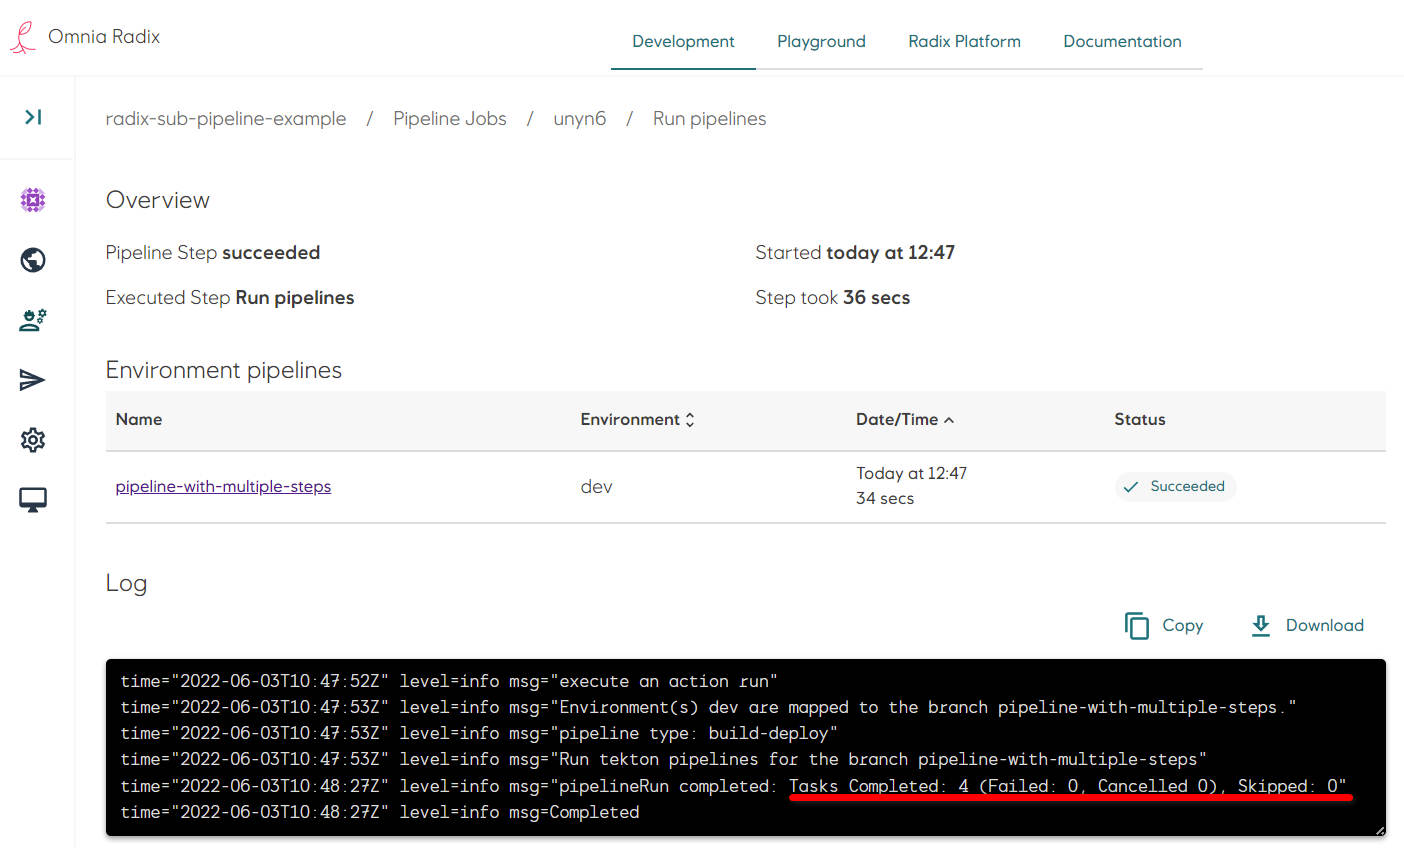
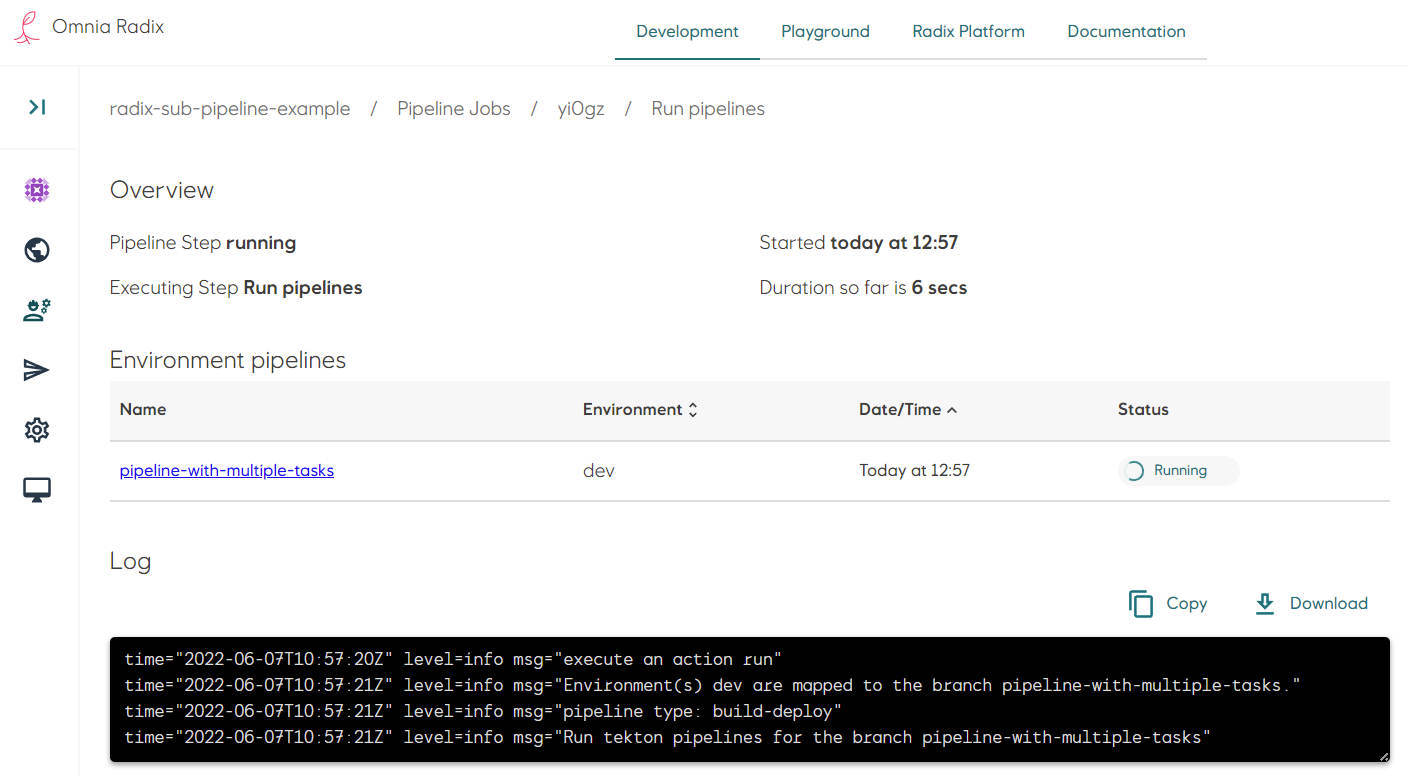
Tekton pipeline docs

diff --git a/public-site/docs/src/guides/sub-pipeline/example-pipeline-with-multiple-tasks.md b/public-site/docs/src/guides/sub-pipeline/example-pipeline-with-multiple-tasks.md
@@ -133,8 +133,8 @@ It is not important in which order to put the tasks - tasks can run in parallel 
 * Navigate to the Radix pipeline step "Run pipeline", when it is running or completed: the pipelines overview page shows a table with a list of pipelines - in this example it is one pipeline "pipeline-example", running for an environment "dev", and the pipeline status.
  ![pipelines](example-pipeline-with-multiple-pipelines.jpg)
 * Navigate to the pipeline (click on its name in the table row)
-* The pipeline overview page shows a table with a list of this pipeline's tasks - in this example it is one task "task-example-hello", and the task status.
+* The pipeline overview page shows a table with a list of this pipeline's tasks - in this example it is a list of tasks "show-hello", "show-letters", "show-numbers", "show-goodbye", and the task statuses.
   ![pipelines](example-pipeline-with-multiple-tasks.jpg)
 * Navigate to the task (click on its name in the table row)
-* The pipeline task overview page shows a table with a list of this task's steps - in this example it is one step "say-hello", the step status and the step log: text "Hello", printed by the command `echo "Hello"` in the Linux container.
+* The pipeline task overview page shows a table with a task's step, with a name of a step, step status and the step log.
   ![pipelines](example-pipeline-with-multiple-task-letters.jpg)
